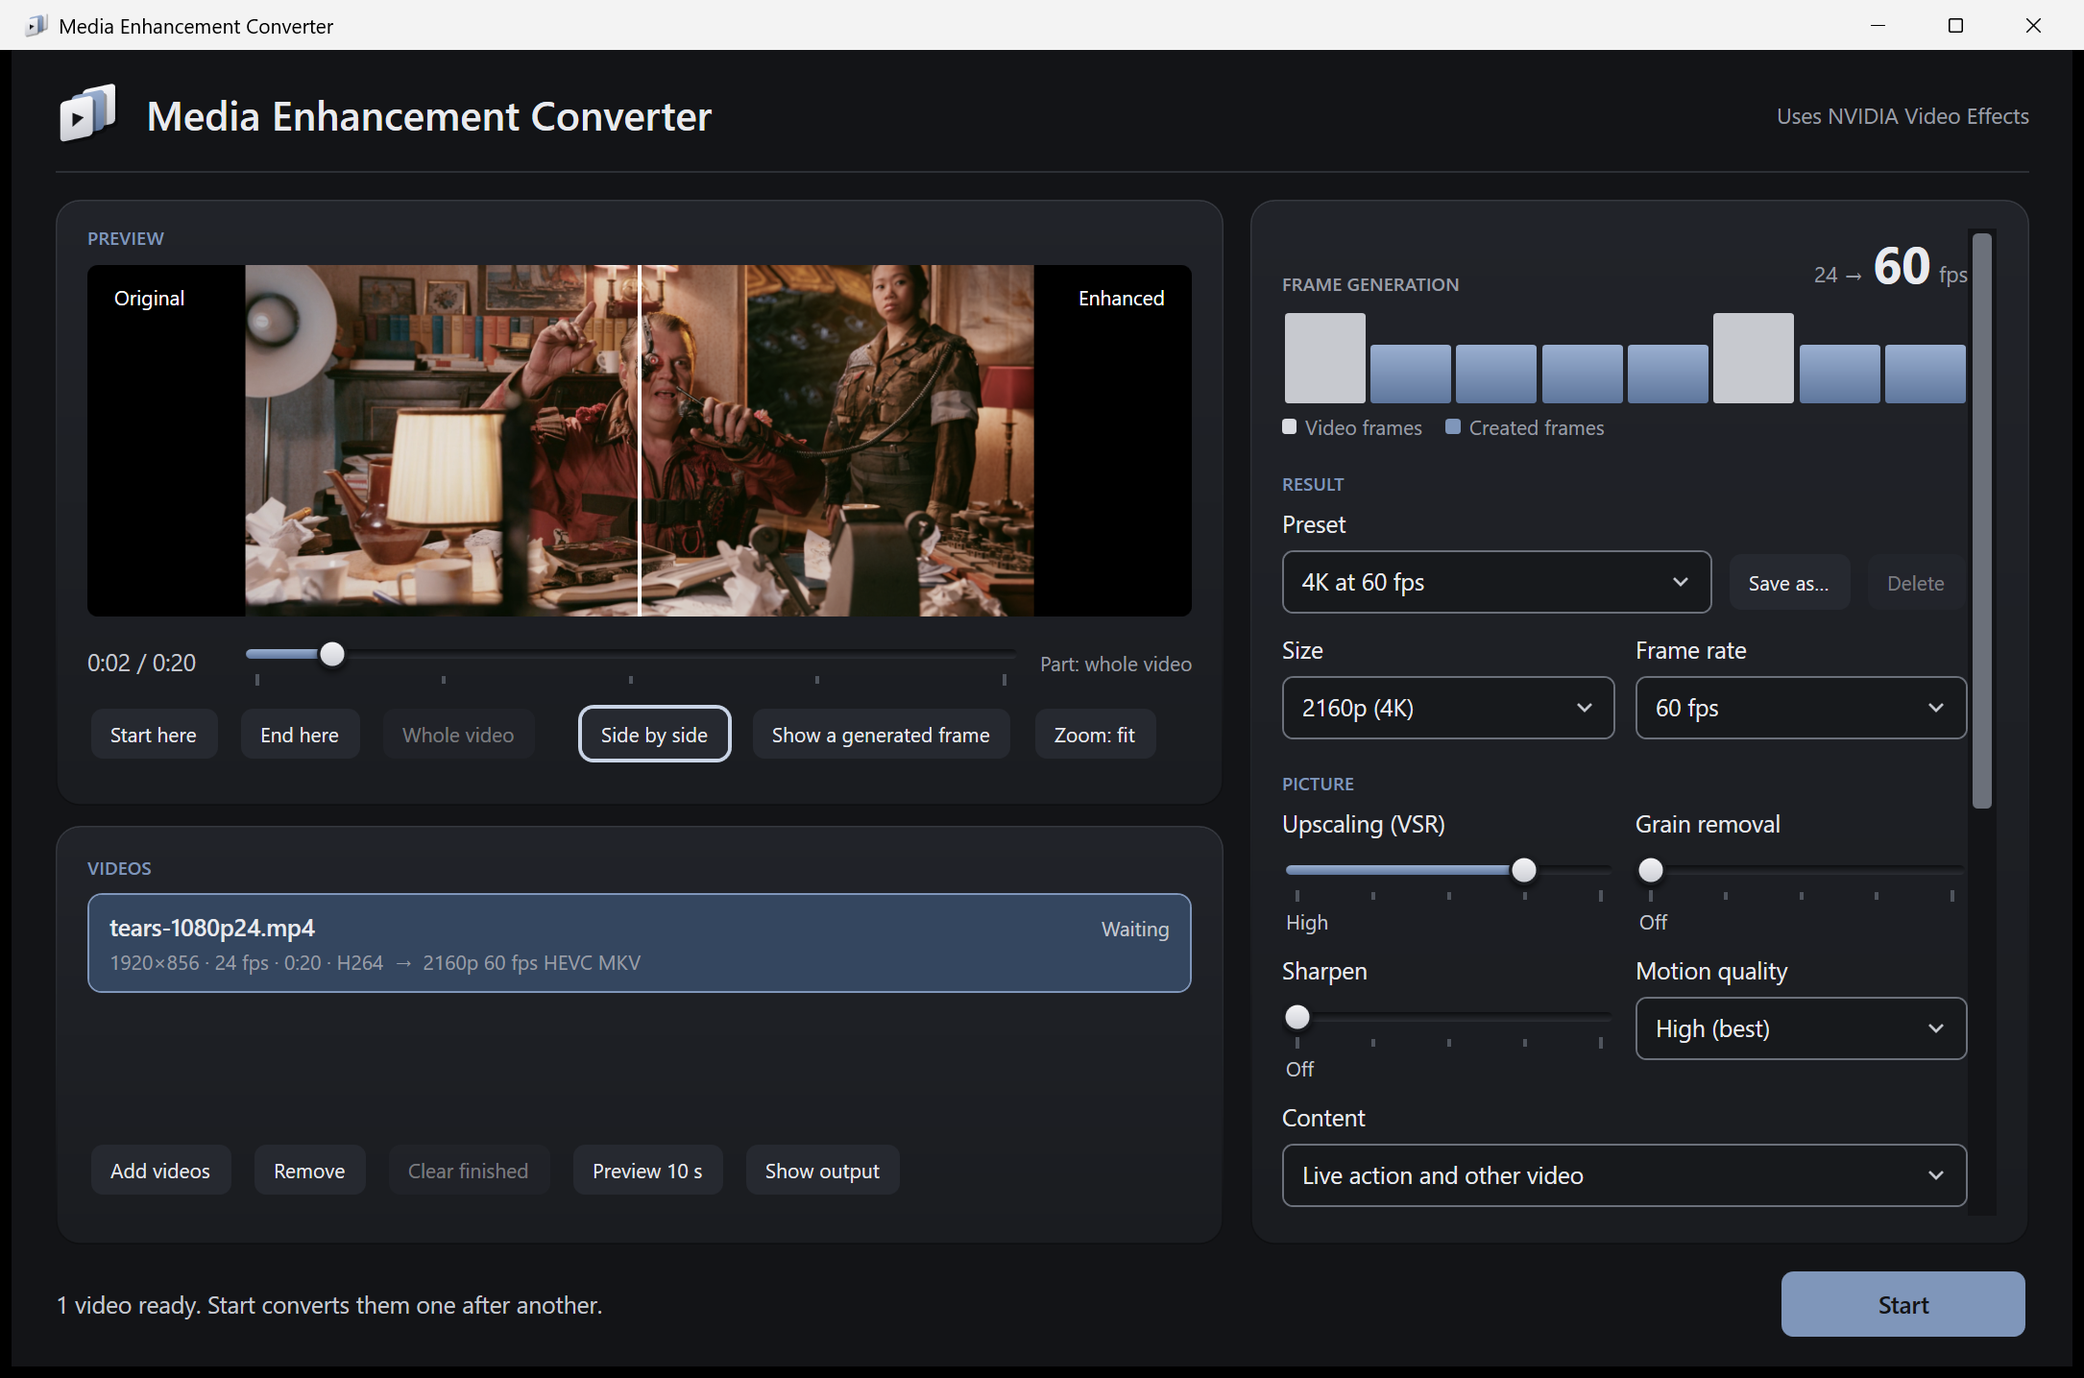
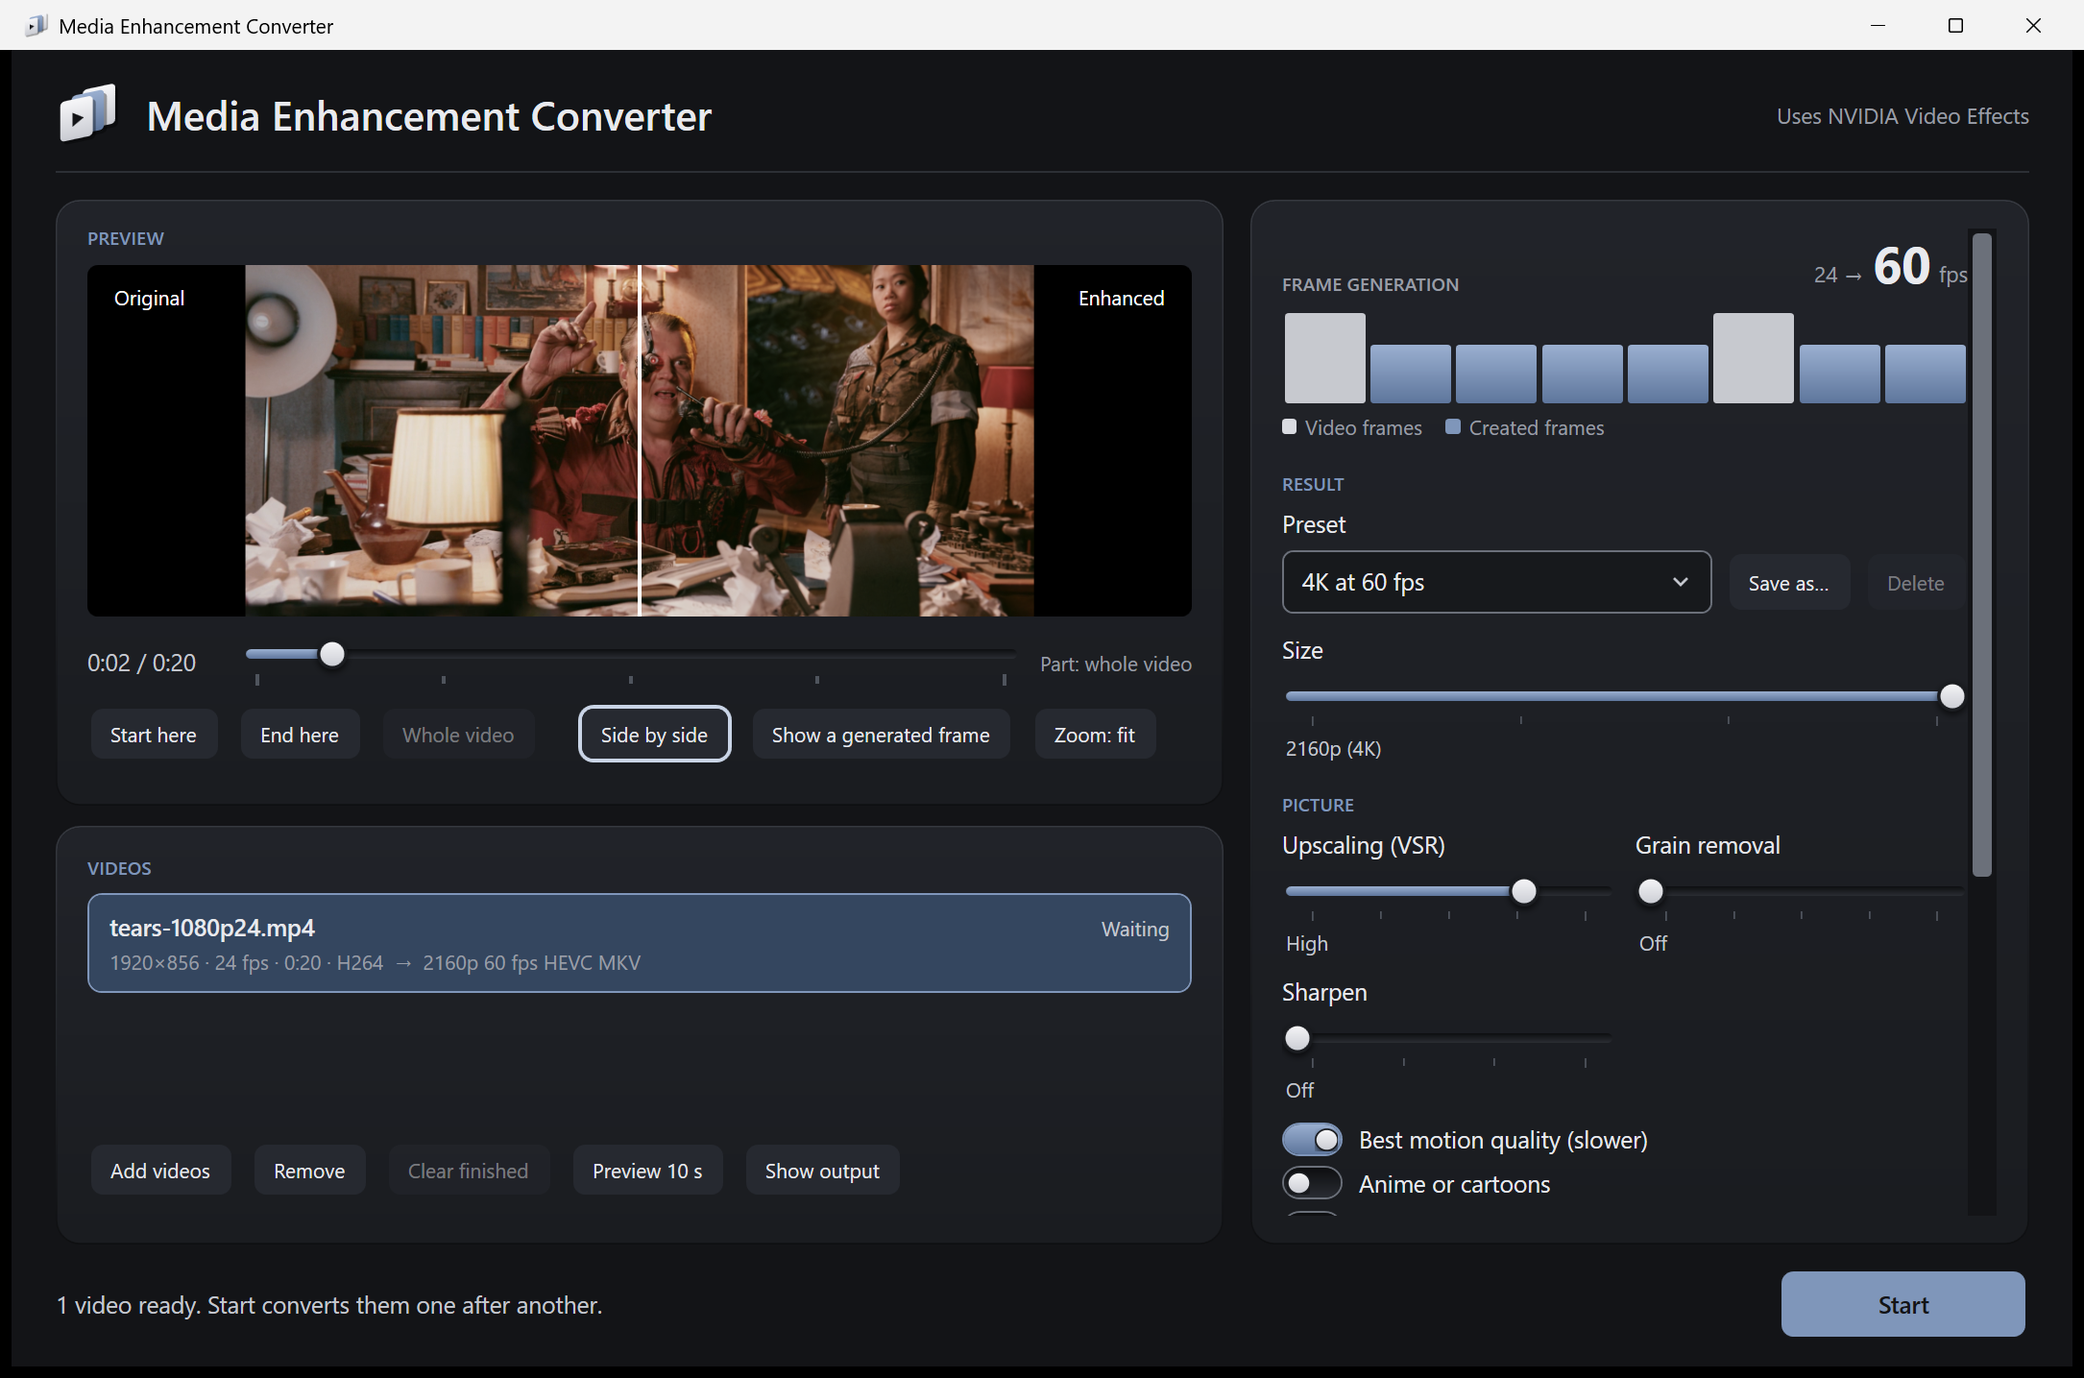
README: 1.5.8 - sliders and switches in place of the drop-down lists, 1.5.7's names, converter 0.6.3 and its pictures, extension 1.5.0
Claude-Session: https://claude.ai/code/session_01Af5hEsQram3B9KX5UcWWQt

diff --git a/README.md b/README.md
@@ -25,8 +25,8 @@ Media Enhancement is an independent project. It is not affiliated with, sponsore
 
 All are in the [latest release](../../releases/latest), whose notes list the SHA-256 checksums.
 
-- **For MPC-HC:** the installer, `Media-Enhancement-Setup-1.5.5.exe`. It can also install the converter (an option in Setup). See [Converter](#converter).
-- **For Chrome, Edge, Brave and Firefox:** the extension, `Media-Enhancement-Browser-1.4.9-Chrome-Edge-Brave.zip` and, for Firefox, `Media-Enhancement-Browser-1.4.7-Firefox.xpi` (the newer version follows once Mozilla has reviewed it). See [Browser extension](#browser-extension).
+- **For MPC-HC:** the installer, `Media-Enhancement-Setup-1.5.8.exe`. It can also install the converter (an option in Setup). See [Converter](#converter).
+- **For Chrome, Edge, Brave and Firefox:** the extension, `Media-Enhancement-Browser-1.5.0-Chrome-Edge-Brave.zip` and, for Firefox, `Media-Enhancement-Browser-1.4.7-Firefox.xpi` (the newer version follows once Mozilla has reviewed it). See [Browser extension](#browser-extension).
 
 ## Requirements
 
@@ -48,9 +48,9 @@ All are in the [latest release](../../releases/latest), whose notes list the SHA
 
 The settings can be changed in three places. They all change the same settings, and most changes apply to the playing video straight away.
 
-- **In MPC-HC:** Play › Filters › Media Enhancement. The menu lists the status, the on/off switch and Picture, Frames and Options; each of these three opens its own menu, with a side branch for each group of choices. Properties in that menu opens the settings panel.
+- **In MPC-HC:** Play › Filters › Media Enhancement. The menu lists the status, Enhance video (the on/off switch, with its key), and Picture, Frame generation and Options. Each of these three opens its own menu, with a side branch for each group of choices. Properties in that menu opens the settings panel.
 - **Control center:** the Media Enhancement app in the Start menu. It also shows the live status of the playing video.
-- **Settings window:** Media Enhancement Settings in the Start menu, for quick changes.
+- **Compact settings:** a small settings window for quick changes. Open Media Enhancement Settings in the Start menu, or Compact settings in the control center.
 
 ![The Media Enhancement menu in MPC-HC, under Play › Filters, with Frames opened and its generation quality branch](docs/images/mpc-menu.png)
 
@@ -64,27 +64,28 @@ The menu's Status line and the panel's status box show live figures while a vide
   - Auto chooses Movie, TV or Anime for each video and uses the recommended levels for that kind of video.
   - Movie, TV and Anime each keep their own grain removal, upscaling, detail and sharpening levels for each video height, which you can change.
   - Off turns the picture treatment off.
-  - **Custom profiles:** Save as saves the levels shown, the frame generation multiple and the priority under a name of your own; choose it from the profile list (also under Picture in the MPC-HC menu) to use it again, and Delete removes it. Up to 32.
-- **Sliders:** the levels are sliders. A level stronger than the strongest one the project's picture measurements accepted is shown in red; you can still choose it. Frame generation is a strip of bars: tall bars are the video's frames, short bars the generated ones, red past what your display can show. Click a slider where you want it, or drag it.
-- **Upscaling:** NVIDIA Video Super Resolution enlarges video to the display size. Video that is already the display size can get a detail pass instead.
+  - **Custom profiles:** Save as saves the levels shown, the frame rate and what to keep when the GPU is short under a name of your own; choose it from the profile list (also under Picture in the MPC-HC menu) to use it again, and Delete removes it. Up to 32.
+- **Sliders and switches:** every setting with steps is a slider, with a mark for each step, and every on/off setting is a switch. The profile is the only list. A level stronger than the strongest one the project's picture measurements accepted is shown in red; you can still choose it. Frame generation is a strip of bars: tall bars are the video's frames, short bars the generated ones, red past what your display can show. Click a slider where you want it, or drag it.
+- **Upscaling:** NVIDIA Video Super Resolution enlarges video to the display size. The Size slider goes from Original size to Up to 4320p (8K). Video that is already the display size can get a detail pass instead.
 - **Film grain removal and sharpening:**
   - Grain removal uses NVIDIA's effect.
   - Sharpening is the filter's own contrast-adaptive pass. It sharpens edges without halos and leaves grain, noise and flat areas as they are.
 - **Frame generation:** NVIDIA Video Frame Generation at 2× to 10×, matched to the display's refresh rate, or off. The multiples from 7× to 10× are for 240 Hz displays. The quality can be Auto, High, Medium or Low.
 - **Scene cuts and fast motion:** at a scene cut, and where the picture changes too fast for clean in-between frames, the filter shows source frames instead of generated ones.
-- **Automatic fit:**
+- **Adjust to the GPU automatically:**
   - The filter chooses the richest settings that fit a GPU time budget you can set.
-  - It favours either frame rate or picture quality, as you choose.
+  - When the GPU is short, it keeps the frame rate, or the picture if you switch on Keep the picture when the GPU is short.
   - It greys out settings that have no effect on your display.
   - It marks a choice that would lower frame generation with the rate it lowers to (for example "→ 3×"), and a choice that is too slow on your PC.
-  - **You can switch it off** (Automatic fit, in the menu's Frames branch, the settings panel and the control center). The frame generation multiple, the generation quality and the picture levels then play exactly as you chose them, for example Medium at 6×, also when the filter's cost estimate says they will not fit; generated frames that would come late are left out instead. A fixed multiple still stops at what the display can show.
-- **A/B hotkey:** compares the enhanced picture with the original while the video plays.
+  - **You can switch it off** (Adjust to the GPU automatically, in the menu's Frame generation branch, the settings panel's GPU group and the control center's GPU box). The frame generation multiple, the generation quality and the picture levels then play exactly as you chose them, for example Medium at 6×, also when the filter's cost estimate says they will not fit; generated frames that would come late are left out instead. A fixed multiple still stops at what the display can show.
+- **On/off hotkey:** turns the enhancement off and on while the video plays, so you can compare. The key is Ctrl+Shift+E. If another program uses it, the key is Ctrl+Alt+E. The menu shows the key in use.
 - **Direct GPU output** (on by default): with MPC Video Renderer in its D3D11 mode, the filter hands its frames over as GPU textures, without a copy through system memory.
-- **Experimental options**, off by default: HDR processing and native D3D11 decoding.
+- **Experimental options**, off by default: Enhance HDR video and native D3D11 decoding.
+- **Video memory:** when frame generation steps down to a lower quality, the higher quality's model is freed after 3 minutes.
 
 ## Limits
 
-- HDR video plays without enhancement unless the experimental HDR processing option is on.
+- HDR video plays without enhancement unless the experimental Enhance HDR video option is on.
 - Interlaced video, very small (below 480×340) or very large (above 8K) video, and odd frame sizes play without enhancement.
 - Frame generation is not available on RTX 20 and RTX 30 series cards. Upscaling and the picture effects still work.
 - When the NVIDIA effects cannot run, video plays without enhancement and the status line says why.
@@ -115,18 +116,18 @@ The pictures were taken with version 1.4.9. The popup:
 ### Install the extension
 
 - **Chrome, Edge or Brave:**
-  1. Download `Media-Enhancement-Browser-1.4.9-Chrome-Edge-Brave.zip` and unzip it to a folder you keep.
+  1. Download `Media-Enhancement-Browser-1.5.0-Chrome-Edge-Brave.zip` and unzip it to a folder you keep.
   2. Open `chrome://extensions` (in Edge, `edge://extensions`; in Brave, `brave://extensions`) and switch on Developer mode.
   3. Choose Load unpacked and select the folder.
-- **Firefox:** download `Media-Enhancement-Browser-1.4.7-Firefox.xpi` and open it in Firefox (or choose Install Add-on From File on the `about:addons` page); Mozilla has signed it. It is version 1.4.7: it has the frame rate on the toolbar button and the change for Firefox on Windows described above, but not yet the upscaling sizes and qualities or Match display's new rule (it gives 4× for 25 fps video on a 120 Hz display). The newer version is waiting for Mozilla's review on [Firefox Add-ons](https://addons.mozilla.org/firefox/addon/media-enhancement/), where it is a new add-on: before you install it from there, remove the earlier version on the `about:addons` page. On Windows, restart Firefox once after installing.
+- **Firefox:** download `Media-Enhancement-Browser-1.4.7-Firefox.xpi` and open it in Firefox (or choose Install Add-on From File on the `about:addons` page); Mozilla has signed it. It is version 1.4.7: it has the frame rate on the toolbar button and the change for Firefox on Windows described above, but not yet the upscaling sizes and qualities, Match display's new rule (it gives 4× for 25 fps video on a 120 Hz display) or the sliders of 1.5.0. The newer version is waiting for Mozilla's review on [Firefox Add-ons](https://addons.mozilla.org/firefox/addon/media-enhancement/), where it is a new add-on: before you install it from there, remove the earlier version on the `about:addons` page. On Windows, restart Firefox once after installing.
 
 ### Use the extension
 
 1. Play a video on a page.
-2. Click the extension's icon and choose **On this page** in the list at the top, or press Alt+Shift+E.
-3. Choose upscaling (up to 4K, 1440p or 1080p, or off) and its quality, and frame generation (off, 2× to 10×, or Match display, the default, which chooses the multiple for your display's refresh rate), and set the picture controls if you like (click a slider where you want it, or drag it); Reset brings them back. The popup shows the video's size and frame rate and what is shown on the screen.
+2. Click the extension's icon and move the slider at the top to **On**, or press Alt+Shift+E.
+3. Set upscaling (off, or up to 1080p, 1440p or 4K) and its quality, frame generation (off, 2× to 10×, or Match display, the default, which chooses the multiple for your display's refresh rate) and the picture controls if you like. They are all sliders: click where you want it, or drag it. Reset brings the picture controls back. The popup shows the video's size and frame rate and what is shown on the screen.
 
-The extension switches on by itself (**Automatic**, the default): when you install it, the browser asks you to let it access all sites. It then switches on when a video plays with its sound on, on any site. It leaves muted videos alone until you switch their sound on, and it also leaves small videos and short previews alone. If you switch it off in a tab, it stays off there until the tab shows another page. Choose **Off** or **On this page** to switch Automatic off; choose **Automatic** to switch it on again.
+The extension switches on by itself (**Auto**, the default): when you install it, the browser asks you to let it access all sites. It then switches on when a video plays with its sound on, on any site. It leaves muted videos alone until you switch their sound on, and it also leaves small videos and short previews alone. If you switch it off in a tab, it stays off there until the tab shows another page. Move the slider at the top to **Off** or **On** to switch Auto off, and to **Auto** to switch it on again.
 
 The extension shows fewer generated frames than you chose when your display's refresh rate cannot show them. When playback would not stay smooth, it steps down for a while: fewer generated frames first, then no upscaling, then the video as it is.
 
@@ -153,7 +154,7 @@ The extension shows fewer generated frames than you chose when your display's re
 
 ### Extension privacy
 
-The extension runs only on your computer and does not collect or send any data. It keeps only its own settings, in the browser. It asks for the active-tab, scripting and storage permissions, and in Firefox also for browser settings, which it uses only to switch Firefox's system compositor off or back on (see Firefox on Windows above). When you install it, the browser asks you to give it access to all websites, which Automatic, the default, needs. The extension then adds a small script to every page you open, which only notices when a video plays, and it switches the enhancement on in a page where a large video plays with its sound on. As when you switch it on yourself, the page can see the enhanced picture and the settings it uses. Choosing Off or On this page switches Automatic off; you can take the access back in the browser's extension settings.
+The extension runs only on your computer and does not collect or send any data. It keeps only its own settings, in the browser. It asks for the active-tab, scripting and storage permissions, and in Firefox also for browser settings, which it uses only to switch Firefox's system compositor off or back on (see Firefox on Windows above). When you install it, the browser asks you to give it access to all websites, which Auto, the default, needs. The extension then adds a small script to every page you open, which only notices when a video plays, and it switches the enhancement on in a page where a large video plays with its sound on. As when you switch it on yourself, the page can see the enhanced picture and the settings it uses. Choosing Off or On switches Auto off; you can take the access back in the browser's extension settings.
 
 ## Converter
 
@@ -163,17 +164,17 @@ A preview. It converts a video file to a new file with the same enhancements (up
 
 - **Preview before converting.** The original frame is on the left and the enhanced frame on the right. Move the seek bar to any scene, zoom in with the mouse wheel (up to 64×) and drag to move the picture. "Show a generated frame" shows a frame made by frame generation.
 - **Split view** shows one picture with a divider you can drag between the original and the enhanced side.
-- **Choose the result:** a preset, or the size, frame rate, upscaling, grain removal, sharpening, motion quality, file format, codec and quality. **Save as** keeps your own combination as a preset; **Delete** removes it.
-- **Anime:** choose Anime under Content, and drawings that are held for two or three frames are filled with generated frames.
+- **Choose the result:** a preset (the only list), or your own settings: the size, frame rate, upscaling, grain removal, sharpening, codec and quality are sliders, and best motion quality, MP4 format, faster encoding and saving beside each video are switches. **Save as** keeps your own combination as a preset; **Delete** removes it.
+- **Anime:** switch on Anime or cartoons, and drawings that are held for two or three frames are filled with generated frames.
 - **Trim:** "Start here" and "End here" convert only part of a video.
 - **Estimates:** "Preview 10 s" converts ten seconds from the seek bar's position and estimates the size and time of the whole conversion.
-- **Still text and overlays** keeps text, logos and game displays steady in generated frames. It is off by default and was measured only on game recordings at 1920×1080 and 2×.
+- **Keep still text and overlays steady** keeps text, logos and game displays steady in generated frames. It is off by default and was measured only on game recordings at 1920×1080 and 2×.
 
 ![Split view with the divider between the original and the enhanced picture](docs/images/converter-split.png)
 
-- Install it with Setup 1.5.5: tick the Media Enhancement Converter option. It gets its own Start-menu shortcut. The original files are not changed.
+- Install it with Setup 1.5.8: tick the Media Enhancement Converter option. It gets its own Start-menu shortcut. The original files are not changed.
 - `MediaEnhancementConvert.exe` in the converter's folder is the same engine for the command line.
-- Tested: the engine's 20-case suite on an RTX 5060 with a 120 Hz display (version 0.6.2) and on an RTX 4070 Laptop GPU with a 240 Hz display (version 0.6.0). The pictures show version 0.6.2.
+- Tested: the engine's 20-case suite on an RTX 5060 with a 120 Hz display (version 0.6.3) and on an RTX 4070 Laptop GPU with a 240 Hz display (version 0.6.0). The pictures show version 0.6.3.
 - It includes FFmpeg 9.0 libraries (LGPL version 3, unchanged).
 
 ## Licence
